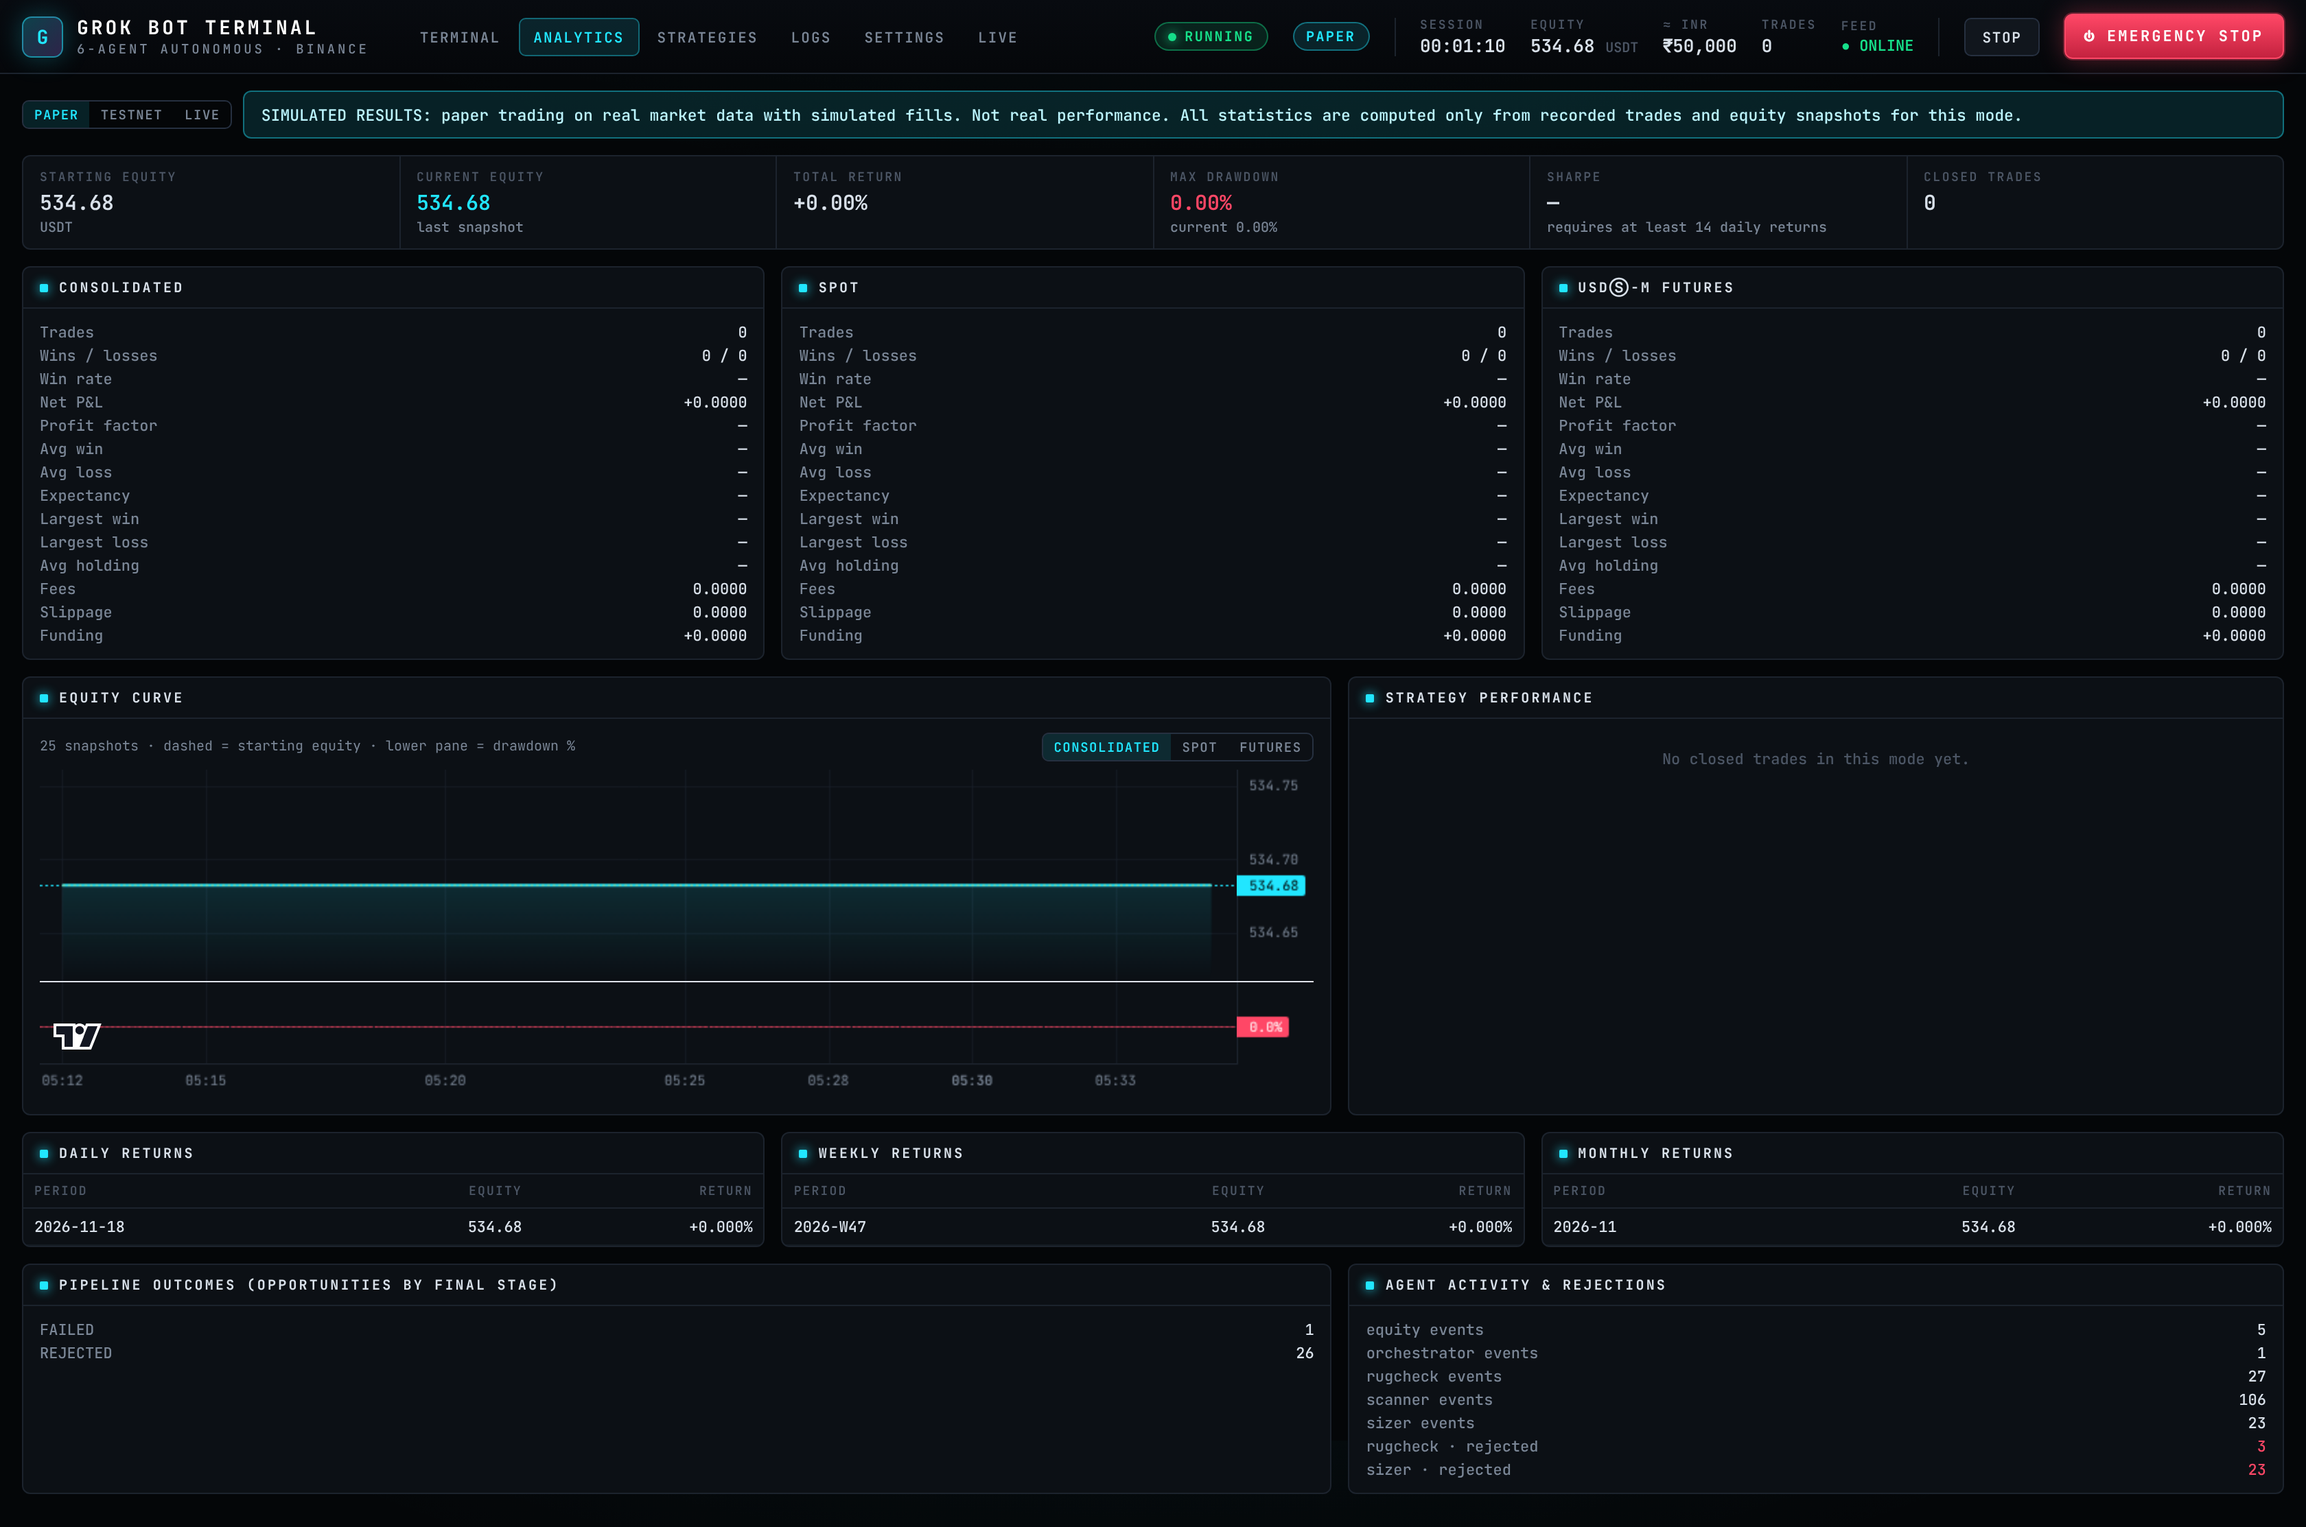
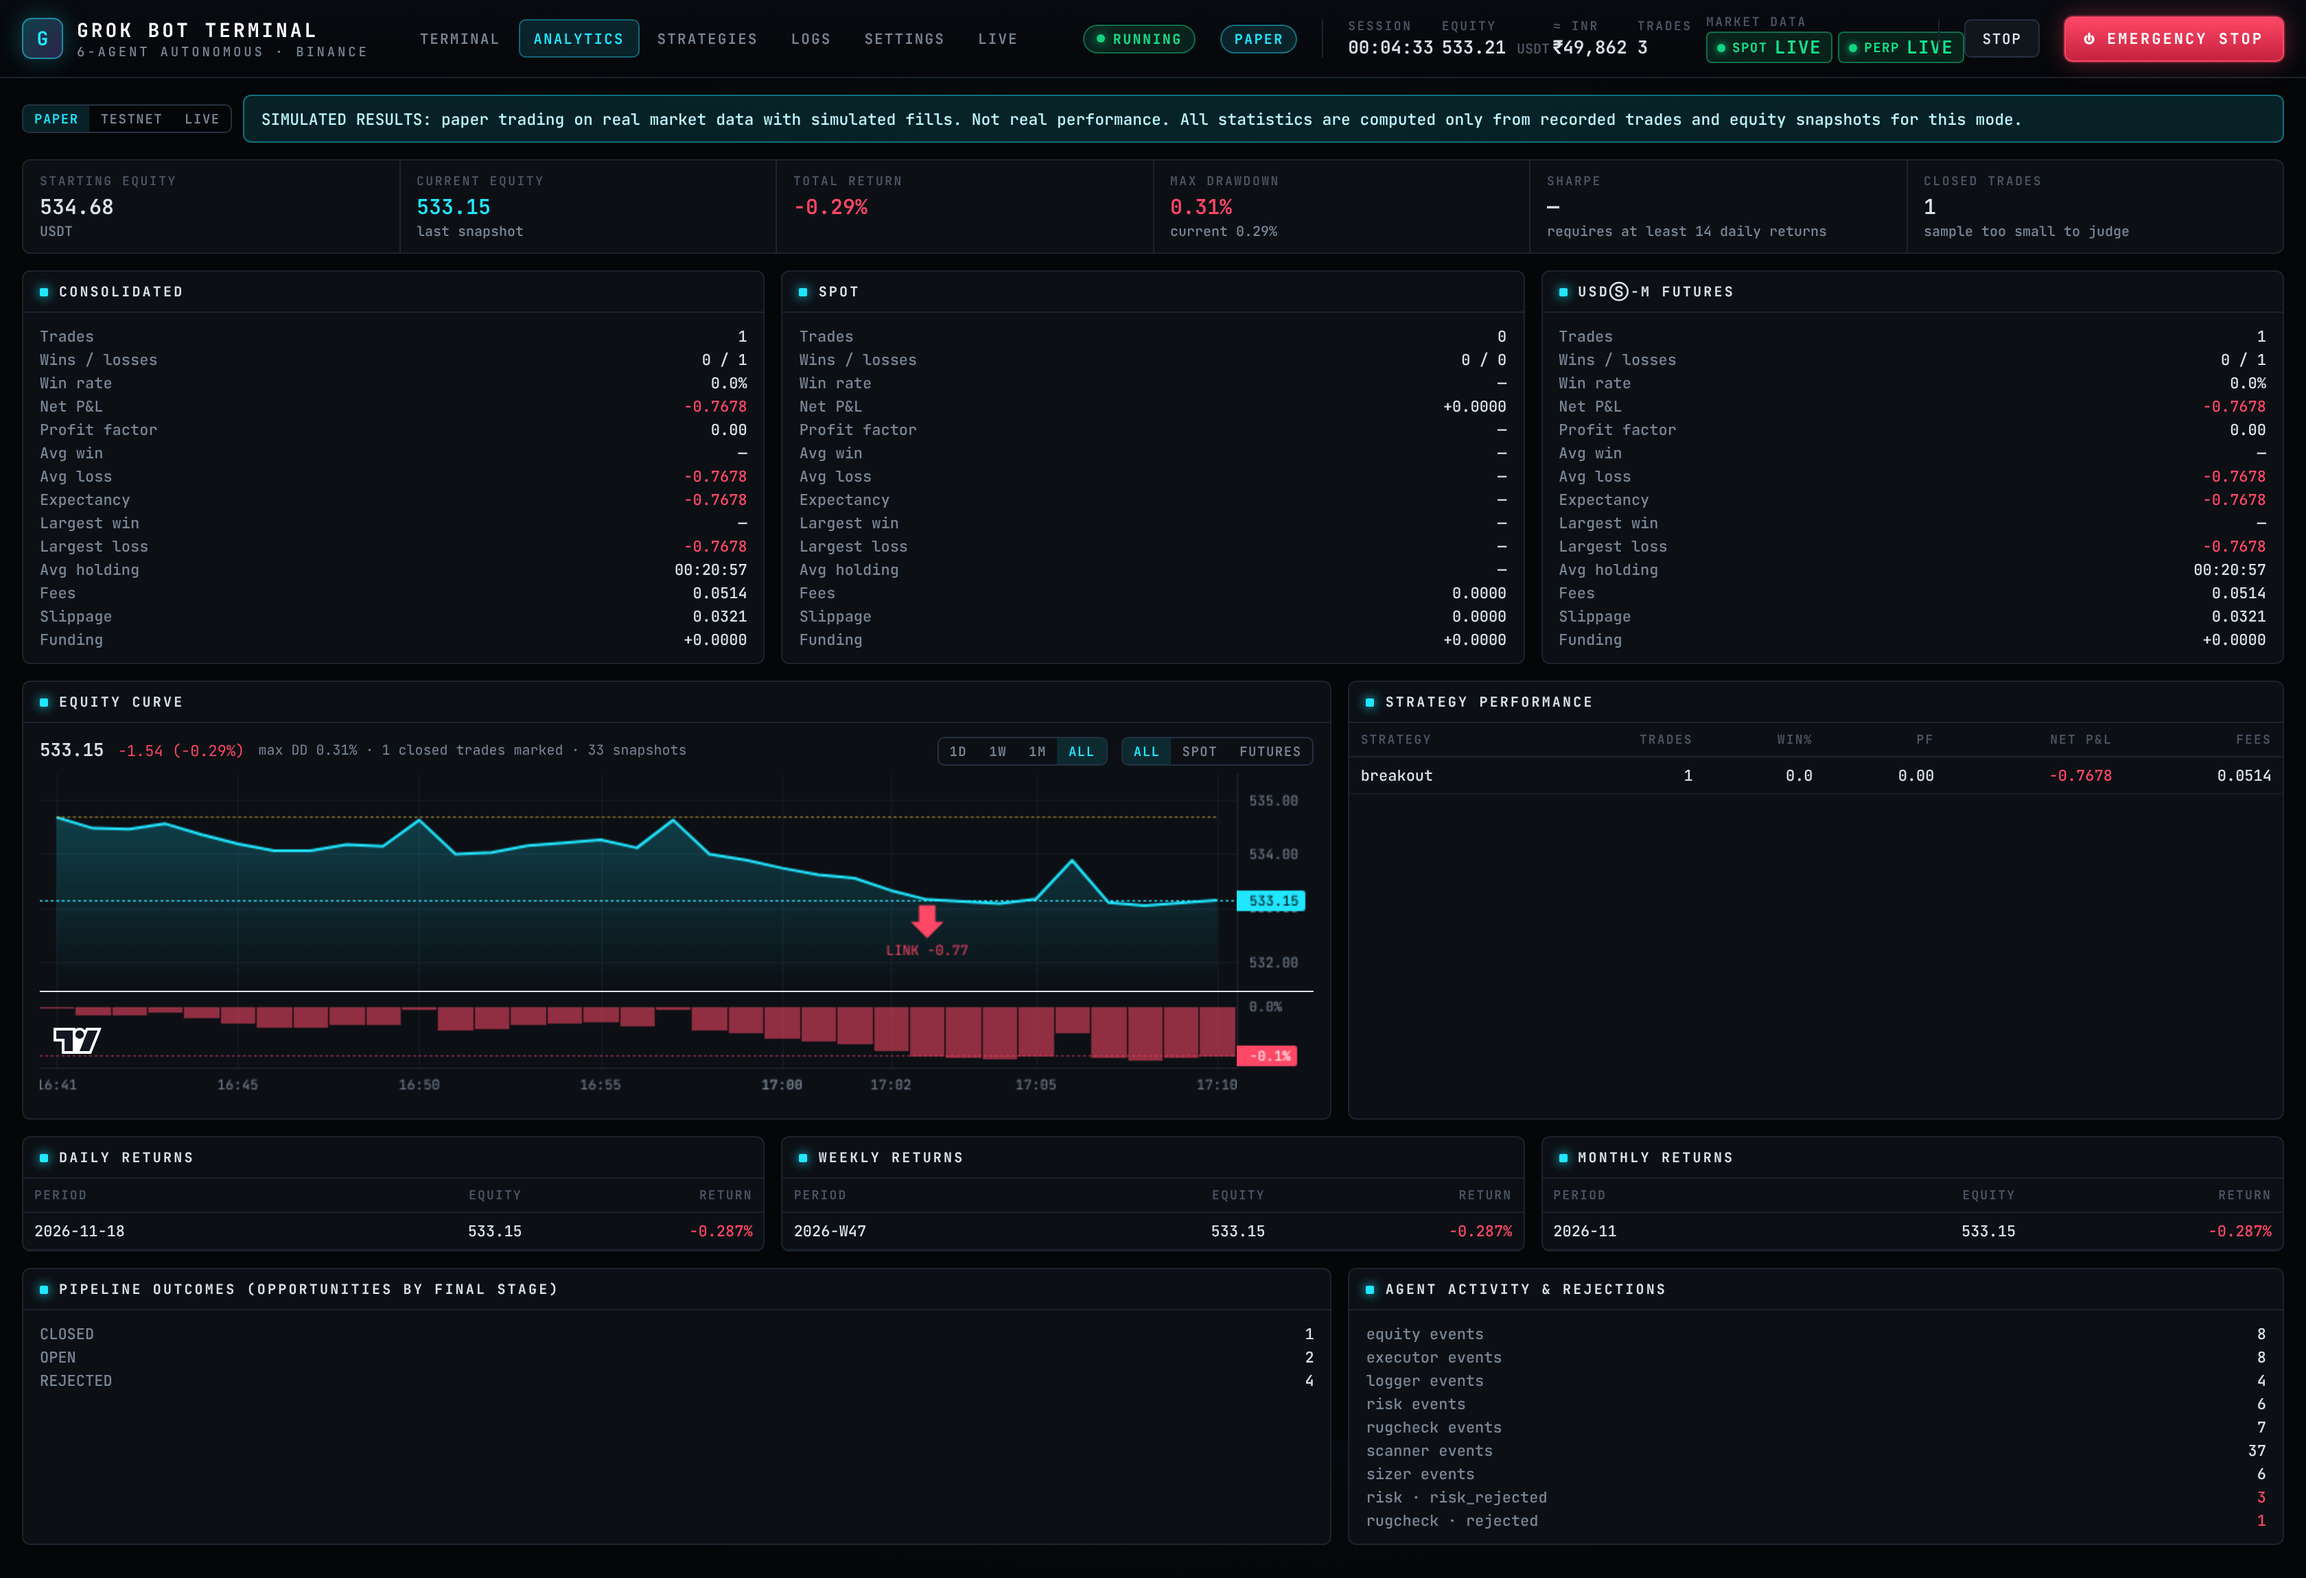
Paper validation tool, multi-db evidence report, drawer layout fix, updated screenshots
Claude-Session: https://claude.ai/code/session_017ArpCNfqwaVcCnSysUZTLR

diff --git a/frontend/src/styles.css b/frontend/src/styles.css
@@ -402,3 +402,8 @@ pre.json { margin: 0; padding: 10px; background: var(--bg); border: 1px solid va
   .panel-h > span.dim, .panel-h > span.mono.dim { display: none; }
 }
 @media (max-width: 1500px) { .brand small { display: none; } }
+
+/* drawers scroll; their panels keep their natural height (no clipping) */
+.drawer-b > .panel, .drawer-b > .grid-2, .drawer-b .grid-2 > .panel { flex-shrink: 0; }
+.drawer-b .panel { overflow: visible; min-height: auto; }
+.content > .panel, .content > .grid-2:not([style*="height"]) > .panel, .content > .grid-3 > .panel { flex-shrink: 0; }

diff --git a/backend/grokbot/paper_validation.py b/backend/grokbot/paper_validation.py
@@ -1,0 +1,70 @@
+"""Operator validation trades in PAPER mode on genuine market data.
+
+    python -m grokbot.paper_validation [--minutes 60]
+
+Pushes clearly-labelled VALIDATION trades (strategy="validation"; not
+strategy signals) through the unchanged production pipeline (Rug Check ->
+Sizer -> central Risk -> Executor) in a dedicated paper database, then lets
+the Executor's monitor manage them on live prices until stop-loss or
+take-profit triggers. Stop/target distances are tighter than the strategies
+use so that exits occur within the session, while still passing the Sizer's
+net reward:risk >= 1.5 gate after fees. Purpose: end-to-end evidence that
+fills, fees, slippage, SL/TP exits, ledger, equity and audit trail work.
+"""
+from __future__ import annotations
+
+import argparse
+import asyncio
+import time
+
+from .engine import Engine
+from .settings import load_settings
+from .strategy.strategies import Signal
+
+PLANS = [  # market, symbol, direction, stop %, target %
+    ("spot", "BTCUSDT", "LONG", 0.45, 1.35),
+    ("futures", "ETHUSDT", "SHORT", 0.35, 0.90),
+]
+
+
+async def main_async(minutes: float) -> None:
+    e = Engine(load_settings())
+    await e.orch.start()  # market data, WebSocket streams, monitor loop (scanner stays stopped)
+    try:
+        await asyncio.sleep(8)
+        e.pf.ensure_initialised("paper")
+        e.equity.update("paper", "validation start")
+        tids = []
+        for market, sym, d, sp, tp in PLANS:
+            t = e.md.ticker(market, sym)
+            px = (t.bid + t.ask) / 2
+            k = 1 if d == "LONG" else -1
+            sig = Signal("validation", d, px, px * (1 - k * sp / 100), px * (1 + k * tp / 100), 1.0,
+                         [f"operator validation trade: stop {sp}%, target {tp}% (not a strategy signal)"], {})
+            tid = e.orch.create_trade("paper", {"market": market, "symbol": sym, "timeframe": "1m",
+                                                "candle_open": int(time.time()), "signal": sig})
+            await e.orch.process(tid)
+            tr = e.orch.trade(tid)
+            print(f"{sym} {market} {d}: {tr['stage']} {tr['reject_reason'] or ''}", flush=True)
+            tids.append(tid)
+        deadline = time.time() + minutes * 60
+        while time.time() < deadline:
+            open_ = e.db.all(f"SELECT trade_id FROM positions WHERE status!='CLOSED' AND trade_id IN ({','.join('?' * len(tids))})", tids)
+            if not open_:
+                break
+            await asyncio.sleep(10)
+        for tid in tids:
+            p = e.db.one("SELECT symbol, status, exit_reason, realized_pnl FROM positions WHERE trade_id=?", (tid,))
+            print(tid, p, flush=True)
+    finally:
+        await e.close()
+
+
+def main() -> None:
+    ap = argparse.ArgumentParser()
+    ap.add_argument("--minutes", type=float, default=60)
+    asyncio.run(main_async(ap.parse_args().minutes))
+
+
+if __name__ == "__main__":
+    main()

diff --git a/backend/grokbot/paper_report.py b/backend/grokbot/paper_report.py
@@ -100,11 +100,20 @@ def render(db: Database, mode: str = "paper") -> str:
 
 def main() -> None:
     ap = argparse.ArgumentParser()
-    ap.add_argument("--db", default=None)
+    ap.add_argument("--db", action="append", help="database path (repeatable)")
+    ap.add_argument("--title", action="append", help="section title per --db")
+    ap.add_argument("--preface", default=None, help="markdown file inserted at the top")
     ap.add_argument("--out", default=str(Path(__file__).resolve().parents[2] / "docs" / "paper_session_report.md"))
     a = ap.parse_args()
-    db = Database(a.db or load_settings().db_path)
-    Path(a.out).write_text(render(db))
+    dbs = a.db or [str(load_settings().db_path)]
+    titles = a.title or [None] * len(dbs)
+    parts = [Path(a.preface).read_text()] if a.preface else []
+    for path, title in zip(dbs, titles):
+        md = render(Database(path))
+        if title:
+            md = md.replace("# Paper-trading session evidence", f"# {title}", 1)
+        parts.append(md)
+    Path(a.out).write_text("\n\n---\n\n".join(parts))
     print("wrote", a.out)
 
 

diff --git a/docs/paper_preface.md b/docs/paper_preface.md
@@ -1,0 +1,25 @@
+# Paper-trading execution evidence (Phase 2)
+
+All records below were generated by the running system and exported from its databases by `python -m grokbot.paper_report`. Each part ends with the independent audit (`grokbot.audit`), which recomputes every figure from fills and the ledger.
+
+* **Part A: strategy forward-test.** The terminal ran unattended on genuine Binance data:
+  * Spot from production REST + WebSocket.
+  * Futures from the Binance Futures **testnet** feed, because production futures is geo-blocked in this environment.
+  * Paper research mode was on, which let the (unpromoted) strategies trade on paper only.
+  * Default risk limits, unchanged.
+  * Entries were market orders first, then post-only limit orders.
+  * The server was restarted three times with open positions to exercise recovery.
+* **Part B: operator validation trades.** These are clearly-labelled trades (`strategy = validation`, not strategy signals) run through the unchanged pipeline (`python -m grokbot.paper_validation`). Their stop and target distances were close enough to trigger within the session, so that stop-loss and take-profit exits could be observed on real prices.
+
+## Finding from the session (fixed)
+
+The LINK short in Part A lost 0.768 USDT against 0.40 USDT of planned risk.
+
+**Root cause:** after a restart, the first scan priced signals from the close of a candle that had closed 11–41 minutes earlier. The executable price had moved 0.7–1.6%, which doubled the real stop distance. The loss stayed inside the 1% max-risk cap, but the system now prevents it in three places:
+1. The Scanner discards stale candles.
+2. The Sizer sizes from the executable bid/ask.
+3. The risk check `entry_drift` rejects adverse drift greater than 25% of the stop distance.
+
+Regression tests replay the case. Details: `AUDIT.md` F11.
+
+Trades opened after the fix (XRP, and all of Part B) show entry drift of at most 0.1%.
